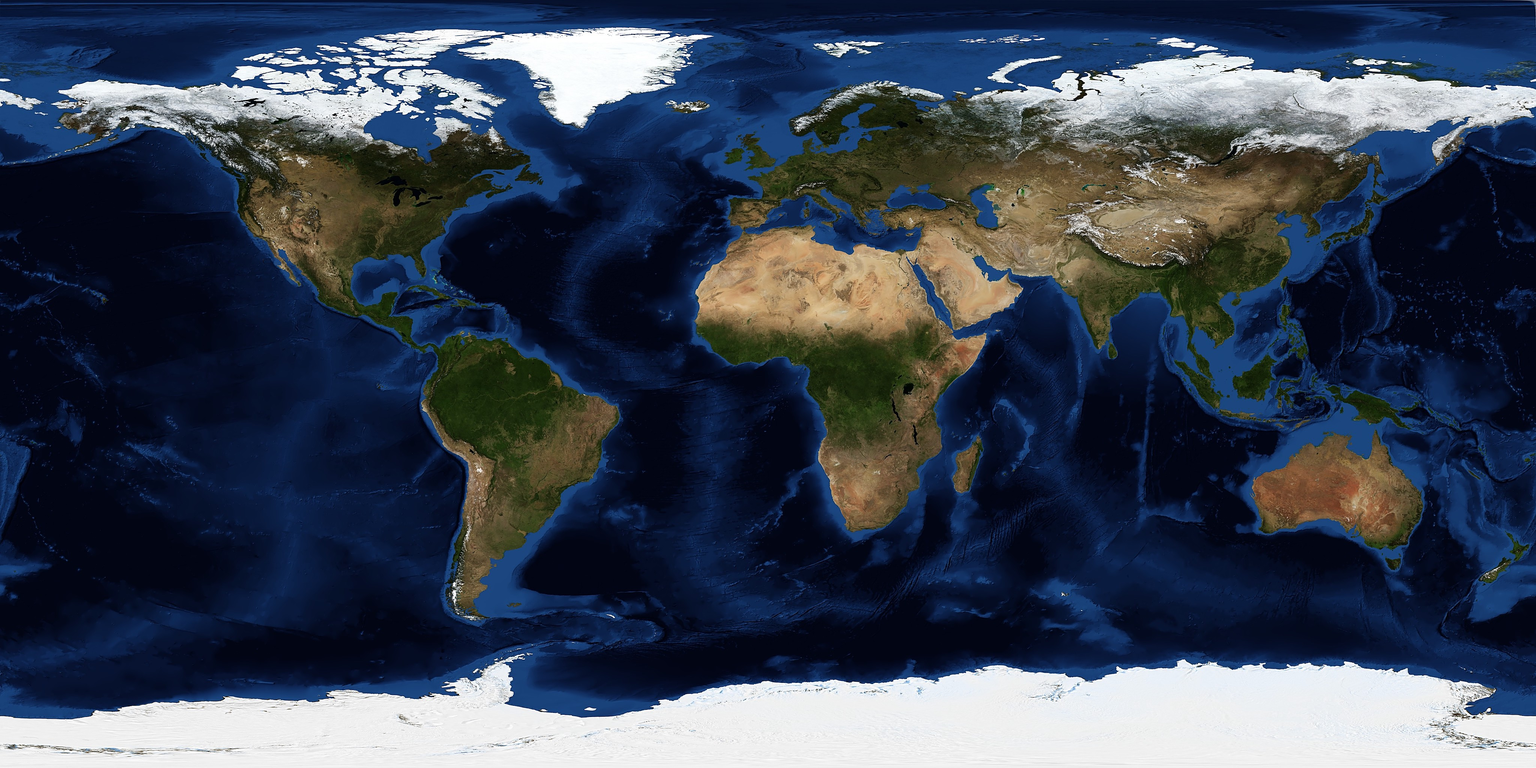
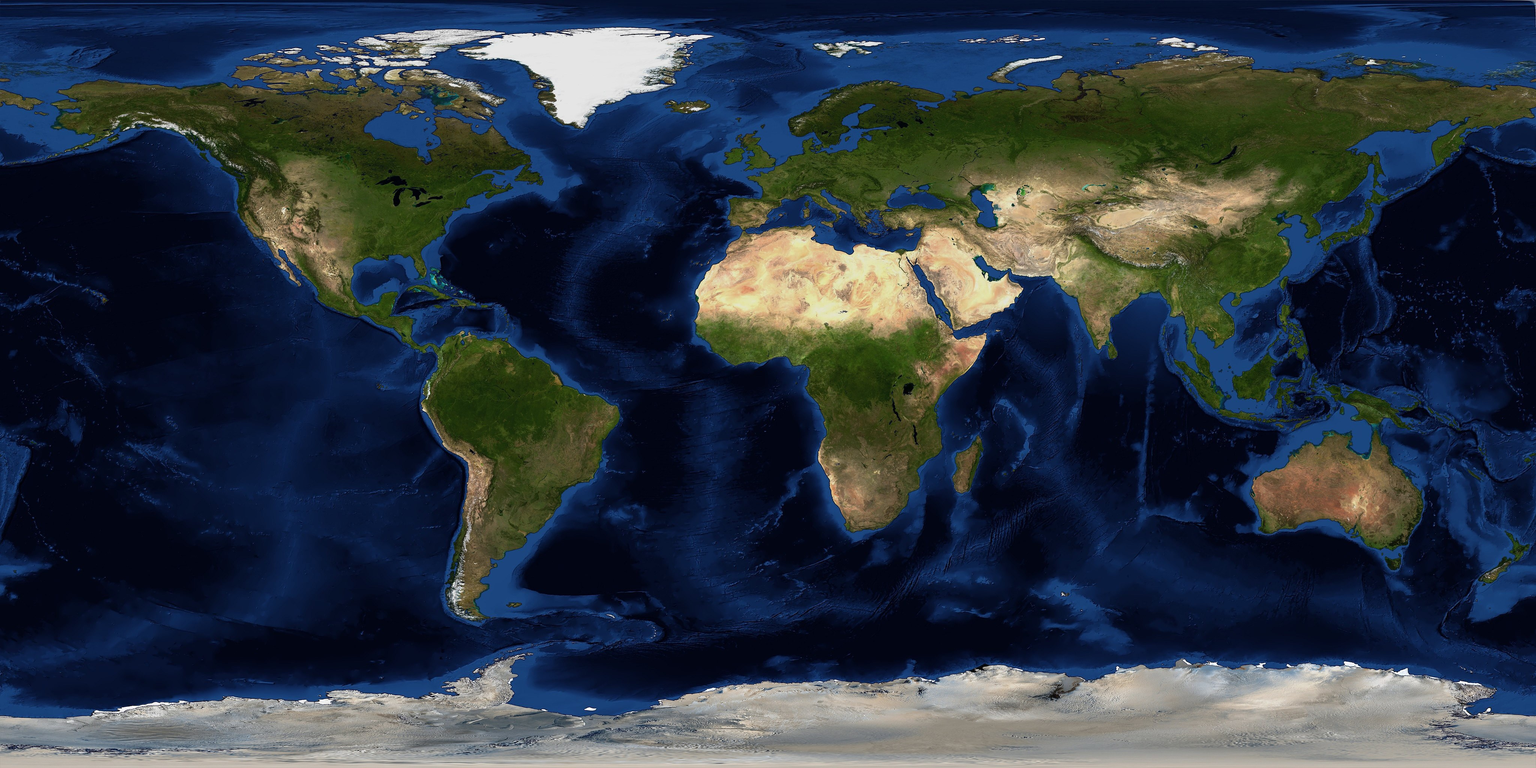
Globe : la Terre en 8K (terres NASA, océans avec le relief des fonds)
Claude-Session: https://claude.ai/code/session_01VNybTuTnTGvmYptAyLQhTj

diff --git a/globe.js b/globe.js
@@ -6,6 +6,9 @@
   const LIB = "assets/vendor/globe.gl.min.js";
   const TEX = {
     earth: "assets/earth/earth-blue-marble.jpg",
+    // 8K (terres NASA « Whole world - land and oceans », domaine public, Wikimedia Commons ; océans de l'image 4K) :
+    // chargée après coup, seulement si la carte graphique accepte une texture de 8192 px.
+    earthHD: "assets/earth/earth-8k.jpg",
     bump: "assets/earth/earth-topology.png",
     clouds: "assets/earth/clouds-alpha.jpg"
   };
@@ -142,7 +145,15 @@
         const max = Math.min(16, r.capabilities.getMaxAnisotropy ? r.capabilities.getMaxAnisotropy() : 1);
         const texs = [mat.map, mat.bumpMap].filter((t) => t && t.image);
         texs.forEach((t) => { if (t.anisotropy !== max) { t.anisotropy = max; t.needsUpdate = true; } });
-        if ((!mat.map || !mat.map.image) && tries++ < 40) setTimeout(go, 250);
+        if ((!mat.map || !mat.map.image) && tries++ < 40) return setTimeout(go, 250);
+        // Puis la Terre en 8K, quand l'appareil peut l'afficher (même image pour tous les globes ouverts).
+        const map = mat.map;
+        if (map && map.image && !map.userData.hd && r.capabilities.maxTextureSize >= 8192 && (map.image.src || "").includes("earth-blue-marble")) {
+          map.userData.hd = true;
+          const img = new Image();
+          img.onload = () => { map.image = img; map.needsUpdate = true; };
+          img.src = TEX.earthHD;
+        }
       } catch (e) { /* bonus : on s'en passe si ça échoue */ }
     };
     go();

diff --git a/sw.js b/sw.js
@@ -1,6 +1,6 @@
 // Service worker : met l'application en cache pour qu'elle marche hors connexion.
 // Pense à changer la version quand tu modifies des fichiers, pour forcer la mise à jour.
-const CACHE = "geonomix-v131";
+const CACHE = "geonomix-v132";
 const FILES = [
   "./",
   "index.html",

diff --git a/tools/build-preview.py b/tools/build-preview.py
@@ -14,7 +14,7 @@ FILES = [
     "assets/vendor/three/OrbitControls.js", "assets/vendor/three/RoomEnvironment.js",
     "assets/vendor/three/BufferGeometryUtils.js",
     "data/countries.js", "data/world.js",
-    "assets/vendor/globe.gl.min.js", "assets/earth/earth-blue-marble.jpg",
+    "assets/vendor/globe.gl.min.js", "assets/earth/earth-blue-marble.jpg", "assets/earth/earth-8k.jpg",
     "assets/earth/earth-topology.png", "assets/earth/clouds-alpha.jpg", "assets/icon.svg",
     "assets/icon-180.png", "assets/icon-192.png", "assets/icon-512.png", "assets/og-image.jpg", "assets/auteur.jpg",
 ]

diff --git a/CLAUDE.md b/CLAUDE.md
@@ -22,7 +22,7 @@ Auteur : Célestin Noury (étudiant en économie). On lui parle **en français**
 - `globe.js` : globe.gl. Accueil (`mount`, repères d'actus, vue sur la région du lecteur) et choroplèthes (`mountIndicators` ;
   le toucher choisit le pays sous le doigt via `toGlobeCoords`, pas le « survol » de globe.gl). Zoom (`addZoom`) : pincement géré par nous (marche même un doigt sur une étiquette de pays), double toucher = zoom sur le point ; à l'accueil, boutons + / − en pastille bleue à gauche sur téléphone, à l'écart du curseur de défilement de droite (demande de l'auteur). Ce curseur (`scrollRail` dans app.js, accueil et Focus) se fait glisser au doigt vers le bas ou le haut (la page suit ; au doigt via touchstart/touchmove avec preventDefault, car sur iPad les évènements pointer laissaient Safari défiler en même temps et la page sautait ; figé en position fixe dès le toucher, défilement limité à une mise à jour par image) ; un toucher descend après la zone, ou remonte si on l'a presque quittée (flèches retournées, classe `up`).
 - **Défiler par-dessus le globe et la Supra** (demande de l'auteur, 12 nov. 2026 : « réduire la surface tactile pour descendre tranquillement » ; le tout-`pan-y` essayé d'abord empêchait de tourner le globe, l'auteur a demandé « un entre-deux ») : le globe et la Supra gardent tous leurs gestes au centre (`touch-action: none`) ; deux bandes transparentes sur les côtés (`.swipe-band l/r`, 20 % de la largeur, 56 à 200 px, léger dégradé) laissent défiler la page, sur l'accueil, les pages pays, le Focus, les globes de Conflits et de Chiffres ; masquées à la souris. Plus large ou plus étroit : `width` de `.swipe-band`.
-- **Globe plus net** (demande de l'auteur, 26 nov. 2026 : « plus pixélisé » = plus de détails) : `crisp(world)` dans globe.js (filtrage anisotrope au maximum de la carte graphique sur l'image et le relief), sphère plus fine (`globeCurvatureResolution(2)`), image `earth-blue-marble.jpg` accentuée (masque flou). Une image 8K de la NASA serait mieux, mais l'original Wikimedia (« Whole world - land and oceans 12000.jpg », domaine public) est refusé depuis la session (trop de requêtes) et le site de la NASA est bloqué.
+- **Globe plus net** (demande de l'auteur, 26 nov. 2026 : « plus pixélisé » puis « plus précis » = plus de détails) : `crisp(world)` dans globe.js (filtrage anisotrope au maximum de la carte graphique, puis remplace l'image par la **Terre en 8K** `assets/earth/earth-8k.jpg` (4,4 Mo) si `maxTextureSize` ≥ 8192), sphère plus fine (`globeCurvatureResolution(2)`). L'image 8K = terres de « Whole world - land and oceans.jpg » (NASA, domaine public, Wikimedia Commons, 8192 px, océans plats) + océans de l'ancienne image 4K (relief des fonds marins), assemblées avec un masque terre/mer ; `earth-blue-marble.jpg` (4K, chargée d'abord) en est la réduction.
 - **Points du globe par pays** (demande de l'auteur, 31 oct. 2026) : `placesFrom` ne regroupe jamais deux pays dans un même point (`countryKey` = fin du nom du lieu, « Paris, France » → france) : Londres, Bruxelles et Paris ont chacun leur point. Volet d'actus (`globeSheet`) : un toucher ailleurs que sur une actu (globe, fond du volet, page) le referme.
 - **Brèves visibles au zoom** (demande de l'auteur, 31 oct. 2026 : « quand on zoome sur l'Europe, mets aussi l'Espagne, le Portugal, l'Allemagne ») : champ `level: 2` ; globe.js (`placesFar` sans les brèves, `placesNear` avec, bascule sous l'altitude 1,55 via `controls` « change ») ; points plus discrets (`.globe-pin.brief`) ; dans les listes, `relevance` −3. Routine : 6 à 10 brèves par jour (grands pays sans actu récente), 2 sources. 4 premières le 31 oct. : Espagne, Allemagne, Portugal (logement), Italie.
 - **Recherche par ville ou région** (demande de l'auteur, 31 oct. 2026 : « je cherche Montréal, ça m'emmène au Canada ») : suggestions 📍 (villes tirées des `geo` « Ville, Pays », régions de `REGIONS_OF` : Québec, Ontario, Catalogne, Bavière, Écosse, Californie, Texas, Kurdistan…) → `#/recherche/<lieu>` (une région trouve aussi les actus de ses villes, `searchAll`) ; toujours un dernier choix « 🌐 Chercher dans l'actualité du web » (Google Actualités). Recherche par IA en direct proposée à l'auteur (fonction Supabase + clé API Anthropic à lui, payante), pas faite.
